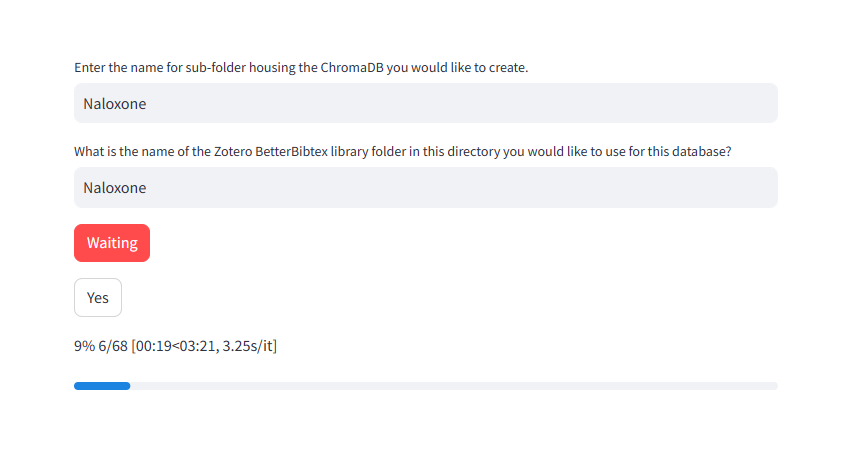
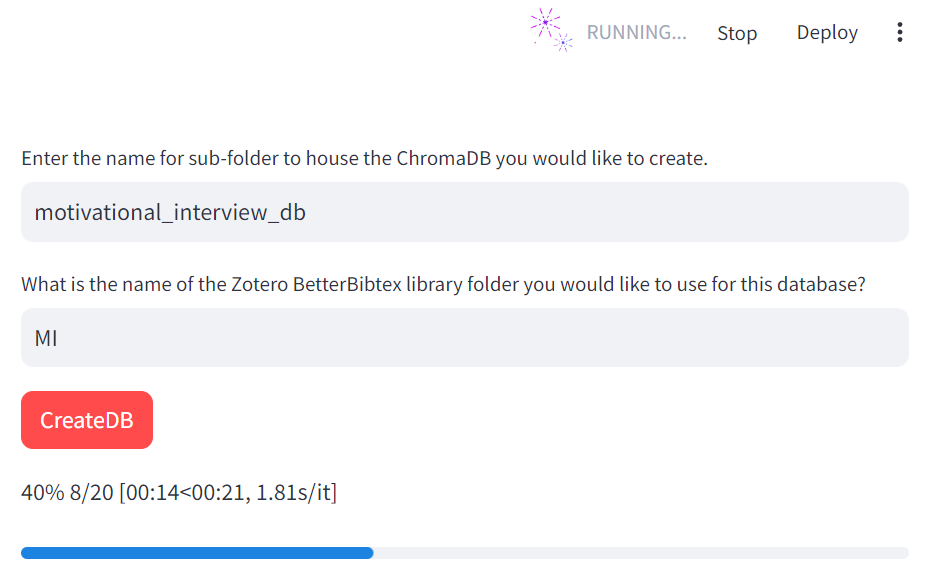
Second commit

diff --git a/app.py b/app.py
@@ -1,7 +1,7 @@
 from langchain.vectorstores import Chroma
 from langchain.chat_models import ChatOpenAI
 from langchain.embeddings.openai import OpenAIEmbeddings
-from langchain.chains import RetrievalQA
+from langchain.chains import RetrievalQAWithSourcesChain
 from langchain.retrievers.multi_query import MultiQueryRetriever
 
 import streamlit as st
@@ -14,68 +14,127 @@ sb.markdown("🛰 **Navigation**")
 page_names = ["DBChat", "CreateDB"]
 page = sb.radio("", page_names, index=0)
 
-def get_vectorstor(directory, openai_api_key):
-    vectordb = Chroma(persist_directory=directory, embedding_function=OpenAIEmbeddings(openai_api_key=openai_api_key, model="text-embedding-ada-002"))
-    return vectordb
-
-def get_retriver(vectorstor):   
-    retriever = vectorstor.as_retriever(search_kwargs={"k": 20})
-    return retriever
-
-def get_qachain(openai_api_key, retriever):
-    qa_chain = RetrievalQA.from_chain_type(
-        llm=ChatOpenAI(
-            model_name="gpt-3.5-turbo", temperature=0.3, openai_api_key=openai_api_key
-            ),
-        chain_type="stuff", 
-        retriever=retriever, 
-        return_source_documents=True)
+with open ("./keys.txt", 'r') as f:
+    keyfile = f.read()
+    f.close()
+OPENAI_API_KEY = re.findall(r'"(.*?)"', keyfile)[0]
 
 def parse_llm_response(llm_response):
-    st.write("QUERY: {}".format(llm_response['query']))
-    st.write("RESPONSE: {}".format(llm_response['result']))
+    st.write("QUERY: {}".format(llm_response['question']))
+    st.write("RESPONSE: {}".format(llm_response['answer'].replace('\n\n','\n')))
+
+    st.write("Sources: {}".format(llm_response['sources']))
+    idlist = []
     for item in llm_response['source_documents']:
         tempdict = {
-            "Text":item.metadata['text'],
-            "Citation":item.metadata['citation'],
-            "Filepath":item.metadata['file_path']
+            "Text":item.page_content,
+            "Source":item.metadata['source'],
+            "Filepath":item.metadata['file_path'],
+            "ID":item.metadata['id']
         }
         st.write(tempdict)
-        
-def main():
-    with open ("./keys.txt", 'r') as f:
-        keyfile = f.read()
-        f.close()
-    OPENAI_API_KEY = re.findall(r'"(.*?)"', keyfile)[0]
+        idlist.append(item.metadata['id'])
+    return idlist
+
+
+def query_func(query_input, vectordb):
     
+    query_text = 'Answer the question posed by the query in paragraph form. The content of the answer should be fitting for academic publication. Use in-text citations. Make your response over 500 words. "Query:"{}"'.format(query_input)    
+    retriever = vectordb.as_retriever(
+        search_type="mmr", 
+        search_kwargs={
+            "k": 15, 
+        }
+    )
+    mqr = MultiQueryRetriever.from_llm(
+            retriever=retriever, 
+            llm=ChatOpenAI(model_name="gpt-4", temperature=0.1, openai_api_key=OPENAI_API_KEY)
+        )
+    qa_chain = RetrievalQAWithSourcesChain.from_chain_type(
+        llm=ChatOpenAI(
+            model_name="gpt-4", temperature=0.1, openai_api_key=OPENAI_API_KEY
+        ),
+        chain_type="stuff", 
+        retriever=mqr, 
+        return_source_documents=True
+        )
+    llm_response = qa_chain(str(query_text))
+    idlist = parse_llm_response(llm_response)
+    return idlist
+
+# def filter_func(query_input, vectordb, idlist):
+#     # afilter = {"id":{"$nin":idlist}}
+#     # verctordb = vectordb.get(where=afilter)
+#     query_text = 'Respond to the query by retrieving the relevant texts from the context. Use in-text citations. Use every source in your answer, if possible. Only use information retrieved from the provided context when generating your response. Do not elaborate about the concepts mentioned in the query. Make your response over 700 wordsQuery:"{}"'.format(query_input)
+
+#     filter_list = []
+#     for item in idlist:
+#         filter_list.append({"id":{"$eq":str(item)}})
+#     afilter = {"$or":filter_list}
+        
+#     retriever = vectordb.as_retriever(
+#         search_type="similarity", 
+#         search_kwargs={
+#             "k": 5,
+#             "filter":afilter
+#         }
+#         )
+
+#     qa_chain = RetrievalQAWithSourcesChain.from_chain_type(
+#         llm=ChatOpenAI(
+#             model_name="gpt-3.5-turbo", 
+#             temperature=0.1, 
+#             openai_api_key=OPENAI_API_KEY
+#         ),
+#         chain_type="stuff", 
+#         retriever=retriever, 
+#         return_source_documents=True
+#         )
+    
+    llm_response = qa_chain(str(query_text))
+    parse_llm_response(llm_response)
+    return llm_response
+
+def del_index(del_input, vectordb):
+    if ',' in str(del_input):
+        dellist = del_input.split(", ")
+    else:
+        dellist=[del_input]
+    print('deleting index {}'.format(dellist))
+    vectordb.delete(ids=dellist)
+
+def main():
     if page == "DBChat":
         dirname = st.text_input("Enter the name for sub-folder housing the ChromaDB you would like to load.", '', key=1)
         DIRECTORY = "./databases/{}/".format(dirname)
-        query = st.text_input("Ask questions about your PDF file:", key=3)
-        if query:
-            vectordb = Chroma(persist_directory=DIRECTORY, embedding_function=OpenAIEmbeddings(openai_api_key=OPENAI_API_KEY, model="text-embedding-ada-002"))
-            retriever = vectordb.as_retriever(search_type="mmr", search_kwargs={"k": 10})
-            MultiQueryRetriever.from_llm(
-                retriever=vectordb.as_retriever(), 
-                llm=ChatOpenAI(model_name="gpt-3.5-turbo", temperature=.1, openai_api_key=OPENAI_API_KEY)
-            )
+        vectordb = Chroma(persist_directory=DIRECTORY, embedding_function=OpenAIEmbeddings(openai_api_key=OPENAI_API_KEY, model="text-embedding-ada-002"))
 
-            qa_chain = RetrievalQA.from_chain_type(
-                llm=ChatOpenAI(
-                    model_name="gpt-3.5-turbo", temperature=.1, openai_api_key=OPENAI_API_KEY
-                    ),
-                chain_type="stuff", 
-                retriever=retriever, 
-                return_source_documents=True)
-            llm_response = qa_chain(str(query))
-            parse_llm_response(llm_response)
+        
+        query_input = st.text_input("Ask questions about your PDF file:", key=3)
+        query = st.button("Query")
+        del_input=''
+        del_input = st.text_input("Write the IDs of entries you wish to delete, seperated by a comma")
+        del_requery = st.button("Delete by ID")
 
+        # re_roll = st.button("Find different responses")
+
+        
+        if query or query_input:
+            idlist = query_func(query_input, vectordb)
+            print(idlist)
+        
+        if del_requery:
+            print("del input:"+del_input)
+            del_index(del_input, vectordb)
+
+
+            
     if page == "CreateDB":
         dirname = st.text_input("Enter the name for sub-folder to house the ChromaDB you would like to create.", '', key=1)
         DIRECTORY = "./databases/{}/".format(dirname)
         LIBRARY = st.text_input("What is the name of the Zotero BetterBibtex library folder you would like to use for this database?", key=5)
-        st.button("Waiting", type="primary")
-        if st.button('CreateDB'):
+        createdb = st.button("CreateDB", type="primary")
+        if createdb:
             process.main(LIBRARY, DIRECTORY, OPENAI_API_KEY)
 
 

diff --git a/process.py b/process.py
@@ -27,15 +27,16 @@ def readPDF(filename):
 
 def format_chunks(chunklist):
     chunks=chunklist
-    print(len(chunks))
     for i in range(1, len(chunks)):
         if chunks[i-1].endswith('.') is False:
             first = chunks[i].split('. ')[0]
             chunks[i]=chunks[i].replace(first, '').lstrip('. ')
             chunks[i-1]=chunks[i-1]+first+'.'
     return chunks
-# Splitter function which splits text from articles to 1000-character chunks, with 200 overlapping
-text_splitter = RecursiveCharacterTextSplitter(chunk_size=600)
+
+
+# text_splitter = RecursiveCharacterTextSplitter(chunk_size=600)
+text_splitter = RecursiveCharacterTextSplitter(chunk_size=700)
 
 # Functions for reducing chunks containing irrelevant information using Spacy natural language processing
 # /// English-language nlp model to categorize textual content
@@ -64,6 +65,8 @@ def delete_multiple_element(list_object, indices):
             list_object.pop(idx)
 
 
+    
+    
 def main(project_name, DIRECTORY, OPENAI_API_KEY):
     print("Enter the name of the Zotero library export (using Better-Bibtext)")
     bibdata = bibparse.main(project_name)
@@ -74,28 +77,50 @@ def main(project_name, DIRECTORY, OPENAI_API_KEY):
     allmeta = []
     for i in stqdm(range(0, len(bibdata))):
         meta = bibdata[i]
+        print(meta['source'], meta['file_path'])
         metadata=[]
+        ids=[]
         filepath = './zotero_libraries/{}'
         text = readPDF(meta['file_path'])
-        text = re.split(r'(?i)abstract', text)[-1]
+        text_re = ''.join(re.split(r'Abstract', text, flags=re.IGNORECASE)[1:])
+        text_re = ''.join(re.split(r'References', text_re, flags=re.IGNORECASE)[:-1])
+        if len(str(text_re))>5000:
+            text=text_re
         chunks = text_splitter.split_text(text)
-        reduced_chunks = ent_cutoff(chunks)
-        
-        omissions = []
-        for index, value in enumerate(chunks):
-            if value not in reduced_chunks:
-                omissions.append(index)
-        delete_multiple_element(chunks, omissions)
-        delete_multiple_element(metadata, omissions)
         chunks=format_chunks(chunks)
+        print(len(text), len(chunks))
+        # reduced_chunks = ent_cutoff(chunks)
+        # print("orig chunks:"+str(len(chunks)))
+        # omissions = []
         for n, chunk in enumerate(chunks):
             meta['text']=chunks[n]
-            meta['id'] = "ID-{}-{}".format(str(i),str(n))
+            idnum="ID-{}-{}".format(str(i),str(n))
+            meta['id'] = idnum
+            ids.append(idnum)
             metadata.append(dict(meta)) 
+        # omissions = []
+        # for index, value in enumerate(chunks):
+        #     if value not in reduced_chunks:
+        #         omissions.append(index)
+        # delete_multiple_element(chunks, omissions)
+        # delete_multiple_element(metadata, omissions)
+        # delete_multiple_element(ids, omissions)
+
+        # print("reduced chunks:"+str(len(chunks)))
+        # allmeta.append(metadata)
+        # allchunks.append(chunks)
+        # for index, value in enumerate(chunks):
+        #     if value not in reduced_chunks:
+        #         omissions.append(index)
+        # delete_multiple_element(chunks, omissions)
+        # delete_multiple_element(metadata, omissions)
+        # chunks=format_chunks(chunks)
+
         vector_index = Chroma.from_texts(
             texts=chunks,
             embedding=embeddings, 
             persist_directory=DIRECTORY, 
-            metadatas=metadata
+            metadatas=metadata,
+            ids=ids
             )
     print("Database created from {} at {}".format(len(bibdata), DIRECTORY))

diff --git a/bibparse.py b/bibparse.py
@@ -24,10 +24,10 @@ def zot_bibparser(dir):
             'file_path':dirpath+getvalue(entry.get('file','missing'))
         }
         try:
-            tempdict['citation']="{}, {}".format(tempdict['author'].split(',')[0], tempdict['year'])
+            tempdict['source']="{}, {}".format(tempdict['author'].split(',')[0], tempdict['year'])
             tempdict['abstract']=getvalue(entry['abstract'])
         except:
-            tempdict['citation']="{}, {}".format(tempdict['author'].split(',')[0], tempdict['year'])
+            tempdict['source']="{}, {}".format(tempdict['author'].split(',')[0], tempdict['year'])
             tempdict['abstract']='not found'
            
         outdict.append(tempdict)

diff --git a/README.md b/README.md
@@ -3,6 +3,8 @@
 
  This application reads a Zotero collection of academic articles exported using BetterBibtex to create a ChromaDB database which may be queried to retrieve text-similar-matches. Each article is seperated into 1000 character "chunks" and parsed using natural language processing using the python Spacy library to remove content other than the article's main text. Each query retrieves the 10 most closely-matched chunks and interprets the retrieval using OpenAI ChatGPT-3.5-turbo generative-ai Large Language Model (llm).
 
+ A default query asks the model to generate responsest that are suitable for academic work and that include in-text citations.  
+
  
 
 # Prerequisites:
@@ -19,8 +21,8 @@ Copy your OpenAI API key from  https://platform.openai.com/api-keys, open "keys.
 
 Create Python 3.10 environment
 ```bash
-conda create -n LLM-research-helper python=3.10
-conda activate LLM-research-helper
+conda create -n LLM-helper python=3.10
+conda activate LLM-helper
 ```
 Clone this repository
 ```bash
@@ -60,8 +62,16 @@ Create the database:
 
  ![](/images/CreateDB_interface.png)
  
-Load the database and query the articles:
+Load the database and query the articles. 
 
  ![](/images/QAInterface.png)
+
+If any of the retrieved sections of text are irrelevant and should be excluded from the database, enter their ID's into the field "Write IDs of entries you wish to delete" amd click "Delete and re-query." Those entries will be removed from the database and and the query will run again to generate a new response. 
+
+ ![](/images/idfordel.png)
+
+ ![](/images/del_input.png)
+
+
 
 
